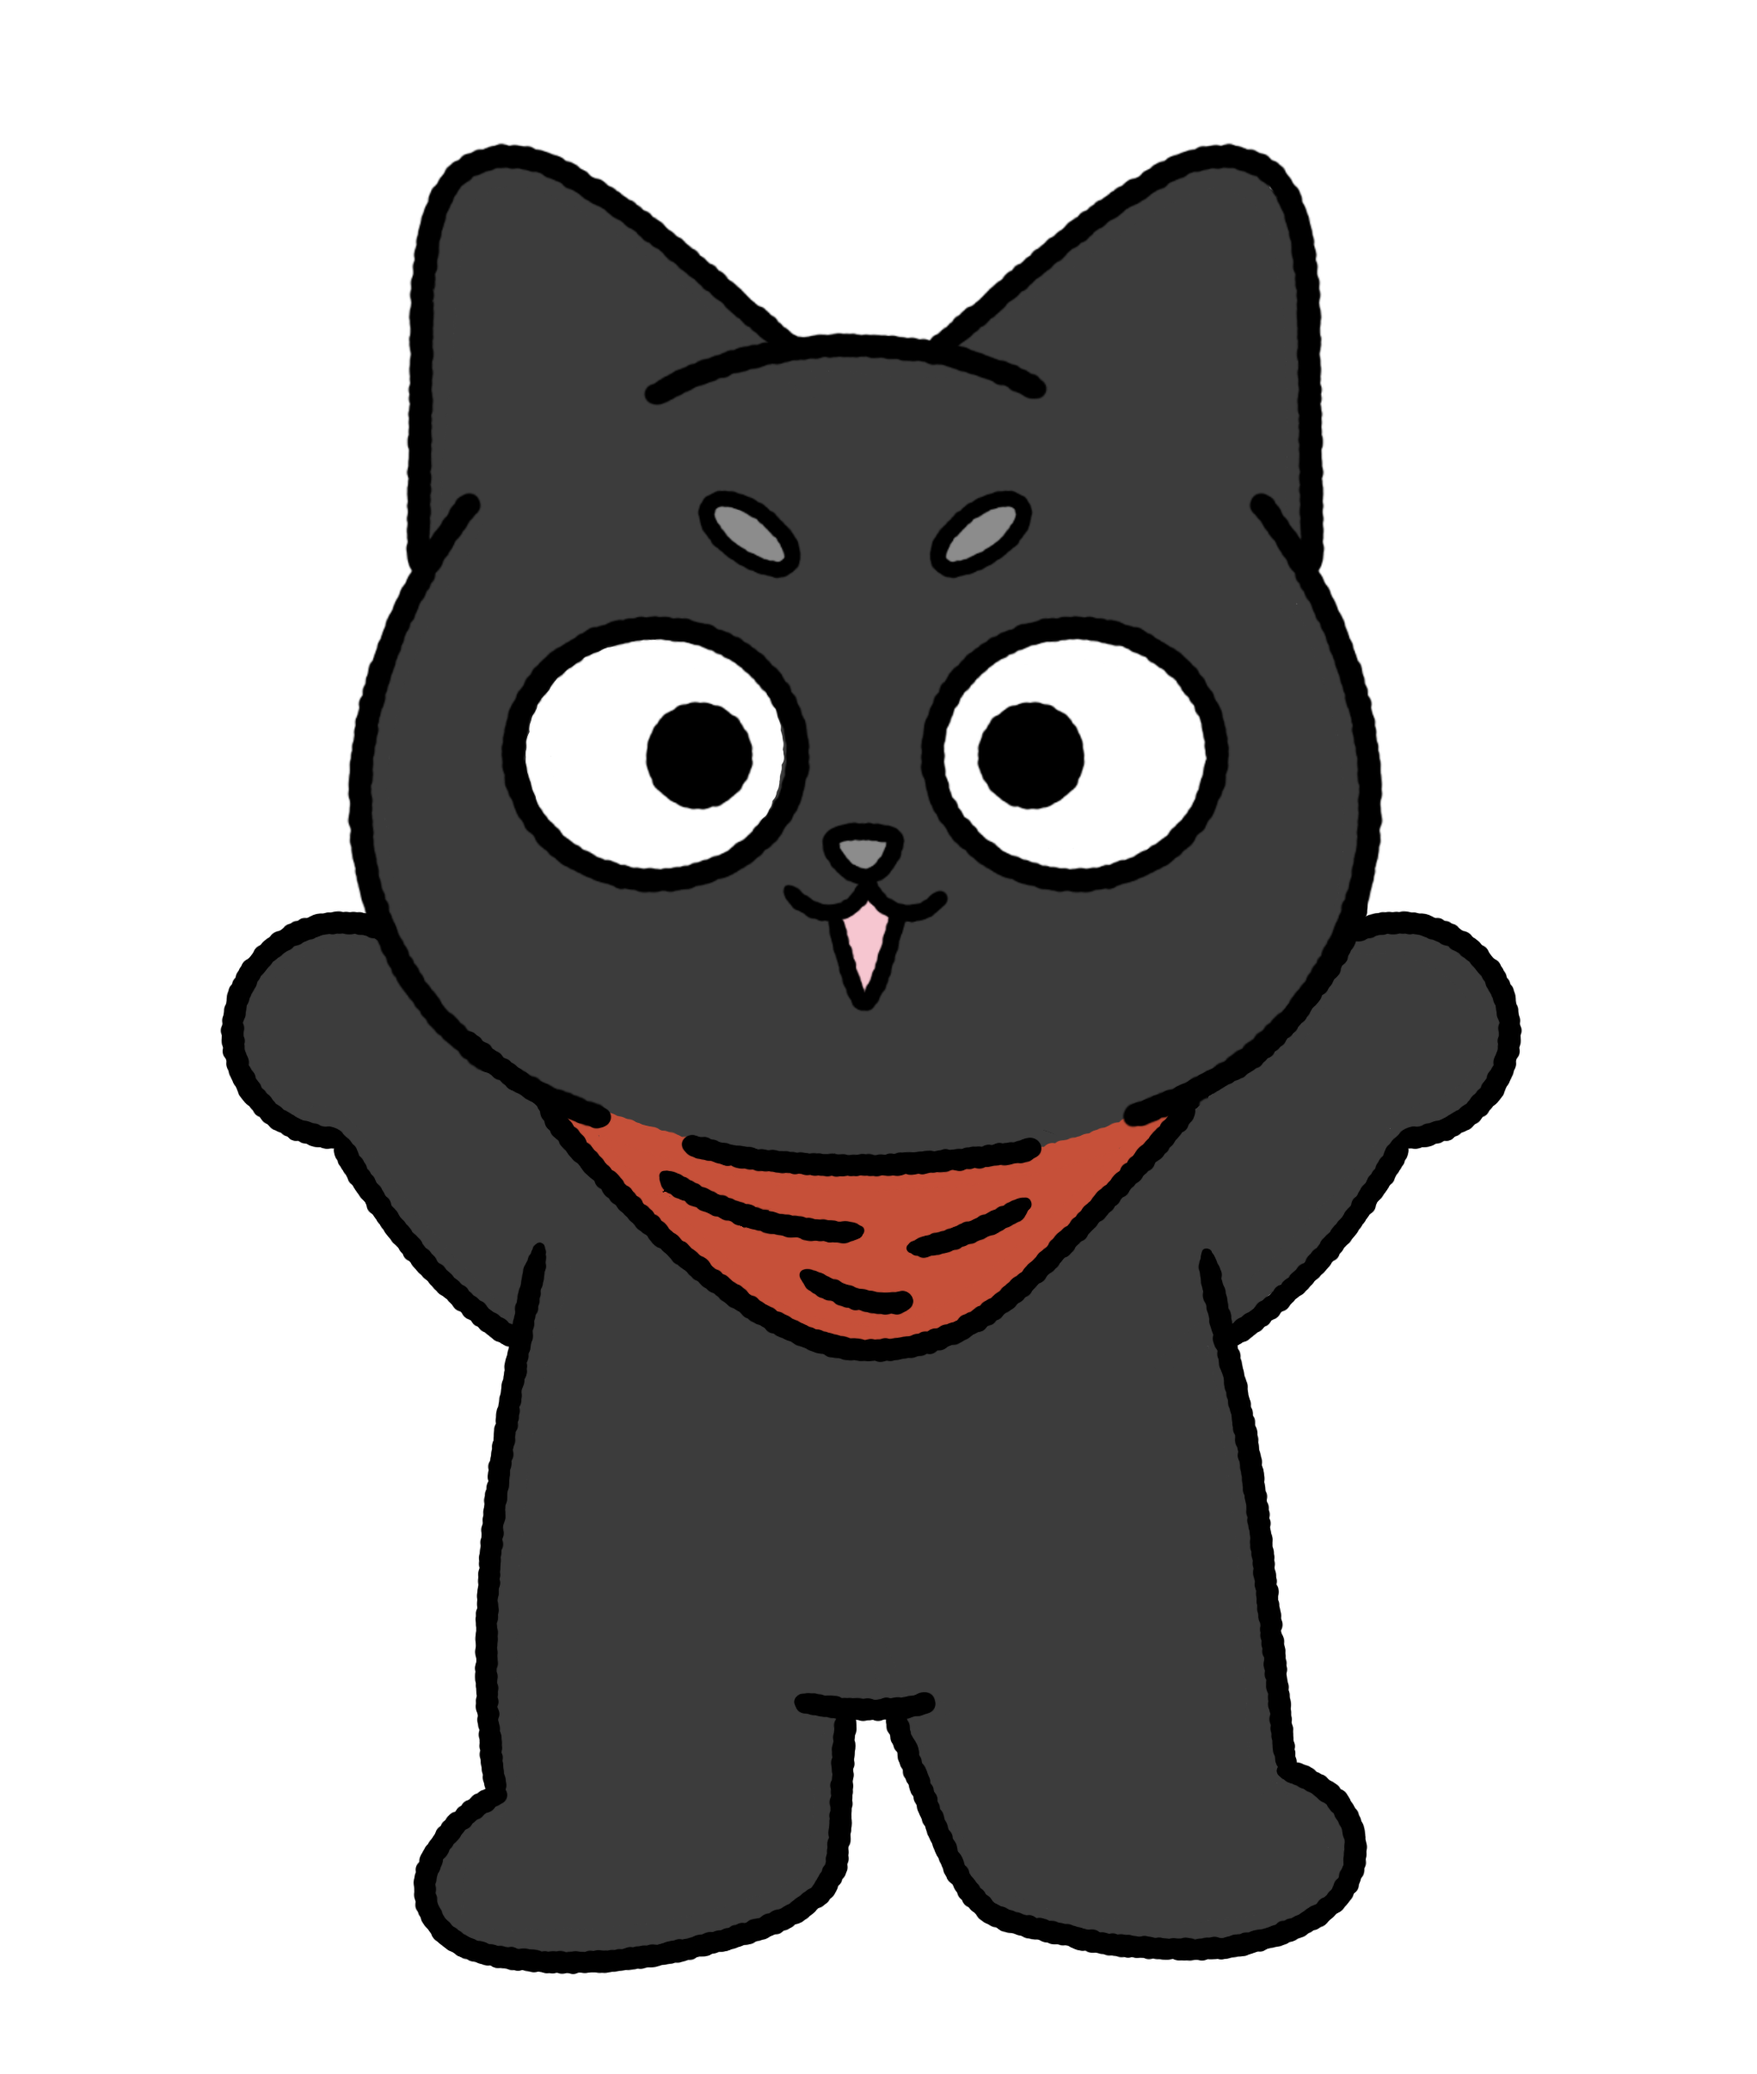
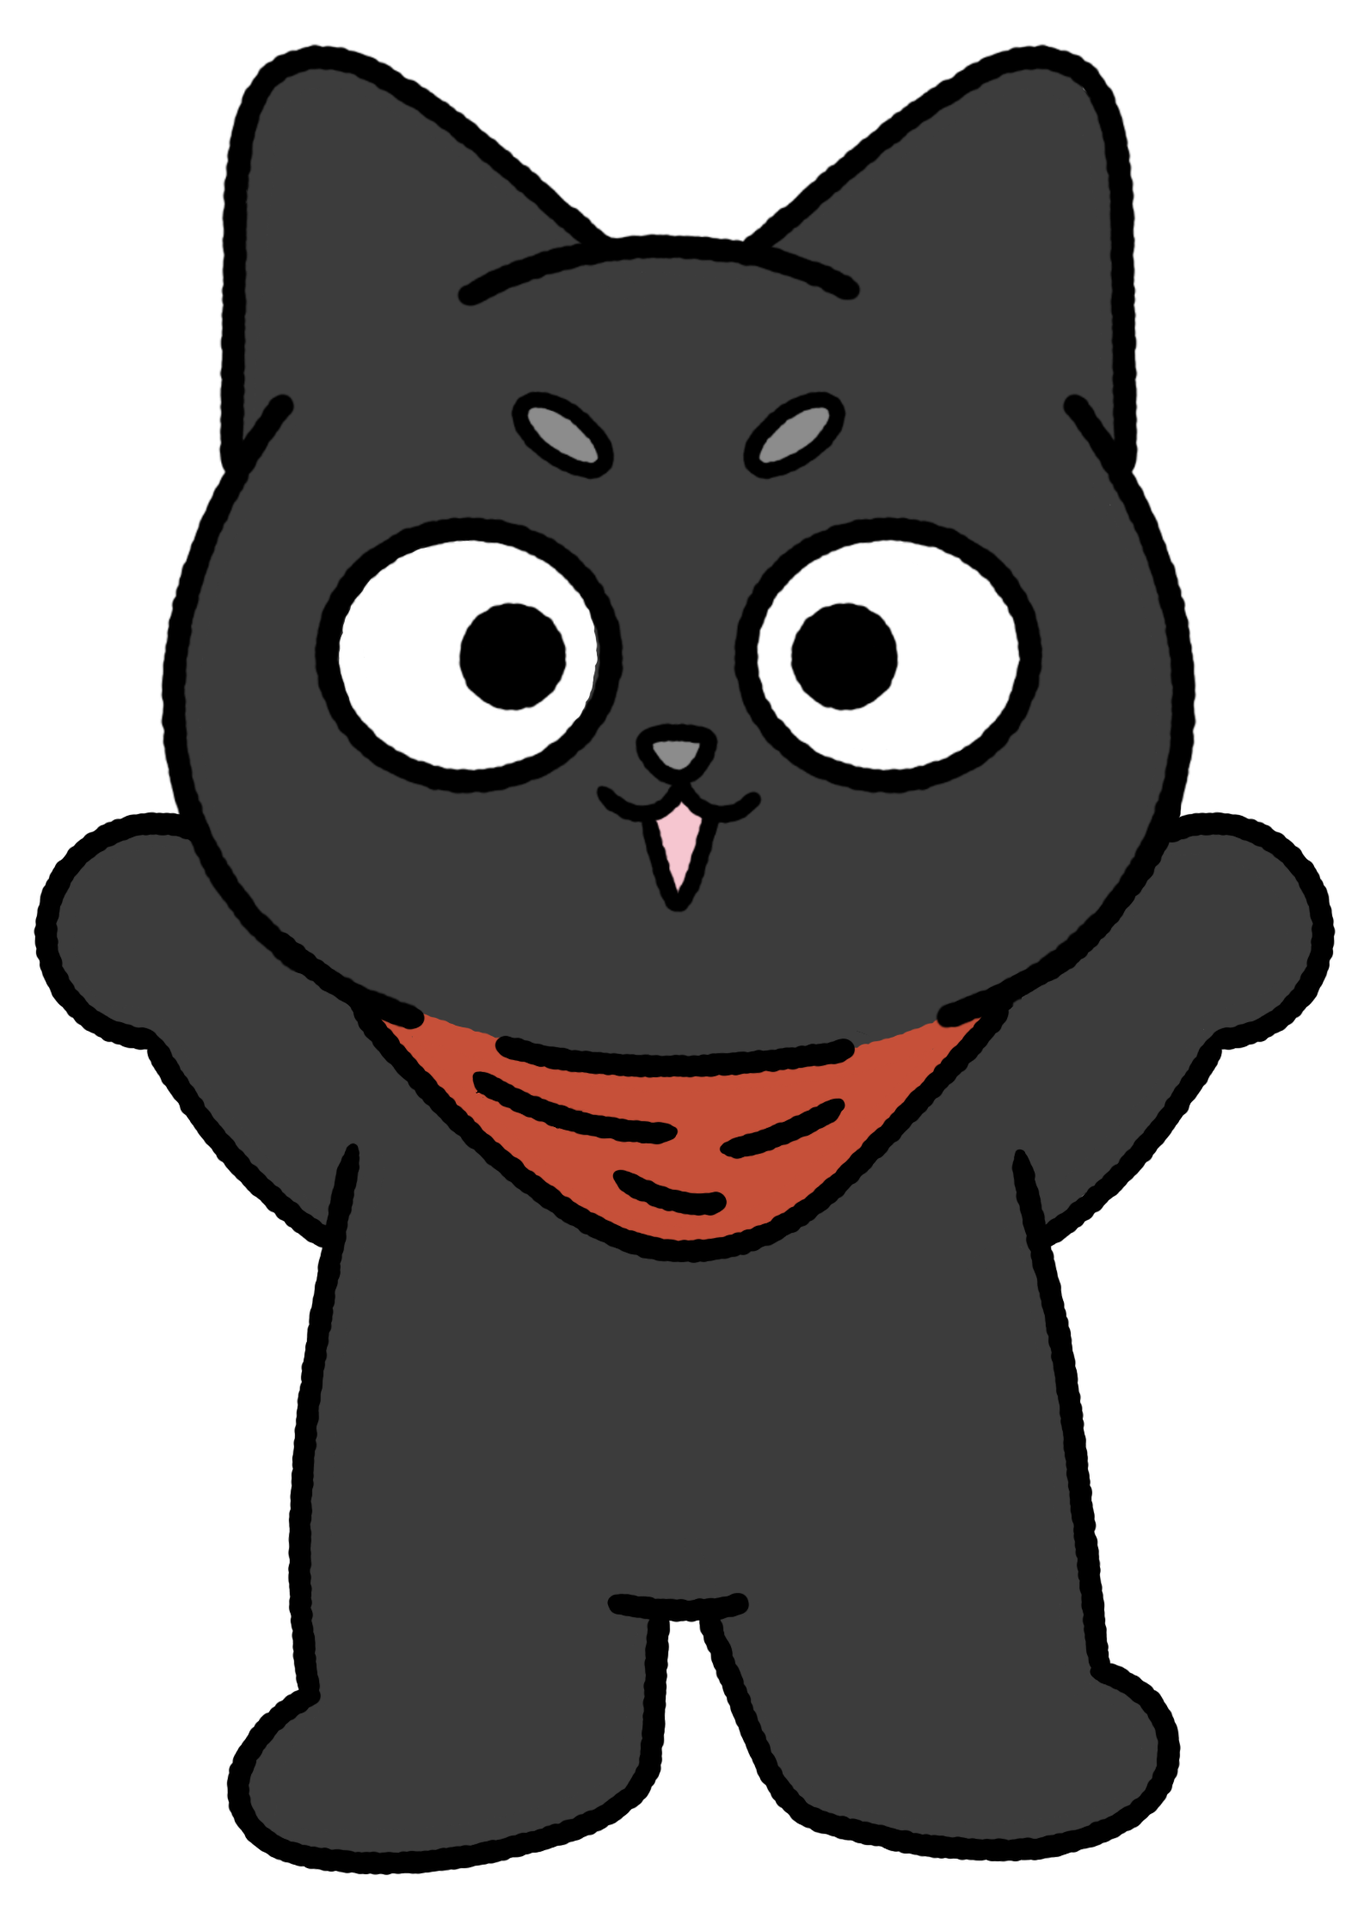
catch character에 따른 크기조정

Changed region(s): [[0.0, 0.0, 0.9843, 0.9928]]

diff --git a/src/components/common/Characters.module.css b/src/components/common/Characters.module.css
@@ -9,14 +9,30 @@
   position: relative;
   bottom: 7.8%;
 }
-
 .catch {
-  width: 32%;
-  height: 90%;
+  animation: floating 3s ease-in-out infinite;
+  position: relative;
+}
+.catch12 {
+  width: 200px;
+  height: 280px;
+  left: 5px;
+}
+.catch3 {
+  width: 260px;
+  height: 310px;
 
-  background-repeat: no-repeat;
-  background-size: contain;
-  background-position: left;
+  right: 16px;
+}
+.catch4 {
+  width: 260px;
+  height: 360px;
+  right: 16px;
+}
+.catch5 {
+  width: 290px;
+  height: 380px;
+  right: 37px;
 }
 
 .citizen {
@@ -26,8 +42,6 @@
   background-repeat: no-repeat;
   background-size: contain;
   background-position: right;
-
-  position: relative;
 
   animation: floating 3s ease-in-out infinite;
 }

diff --git a/src/components/common/Characters.js b/src/components/common/Characters.js
@@ -30,11 +30,18 @@ const Characters = ({ Number, CitizenImage }) => {
   };
   return (
     <div className={classes["character-container"]}>
-      <div
-        className={classes["catch"]}
-        style={{
-          backgroundImage: `url(${selectCatchImage(level)})`,
-        }}
+      <img
+        className={`${classes.catch} ${
+          level === 3
+            ? classes["catch3"]
+            : level === 4
+            ? classes["catch4"]
+            : level === 5
+            ? classes["catch5"]
+            : classes["catch12"]
+        } ${classes["floating"]}`}
+        src={selectCatchImage(level)}
+        alt="catch"
       />
 
       <div
